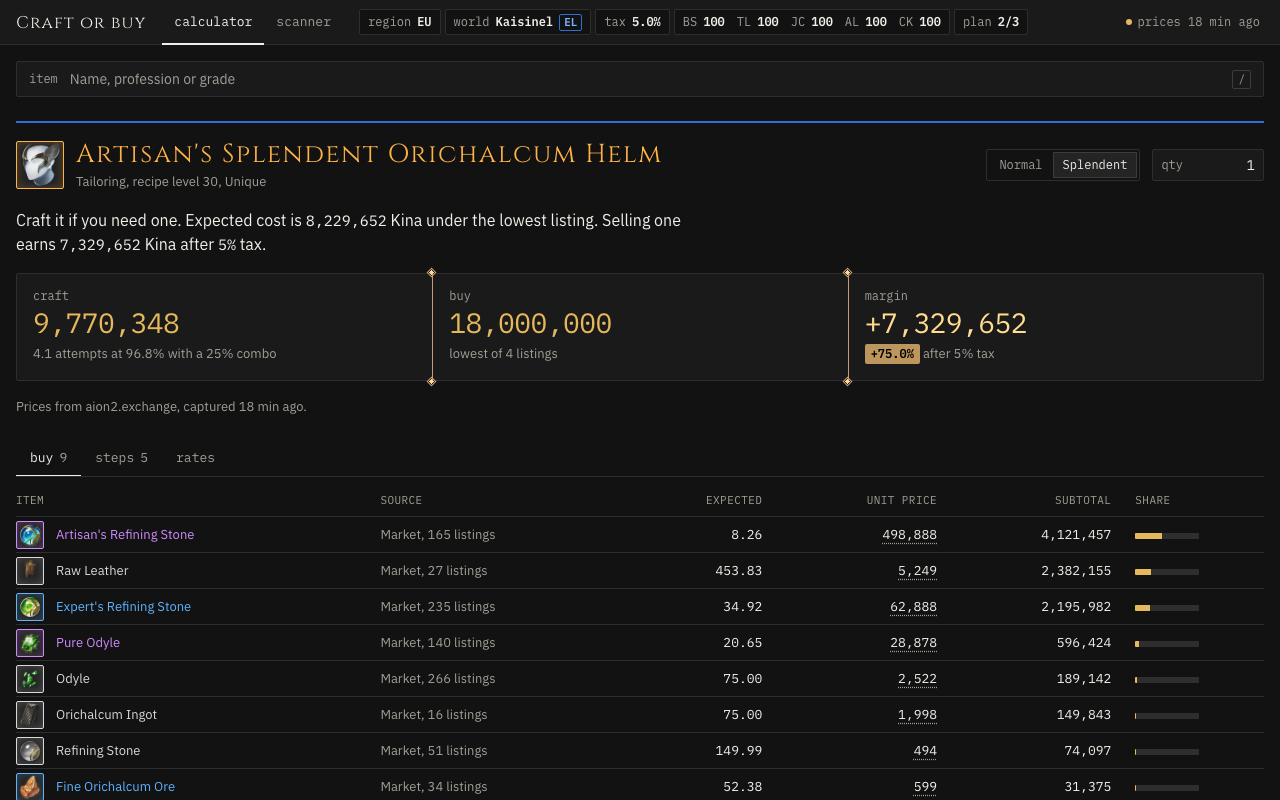
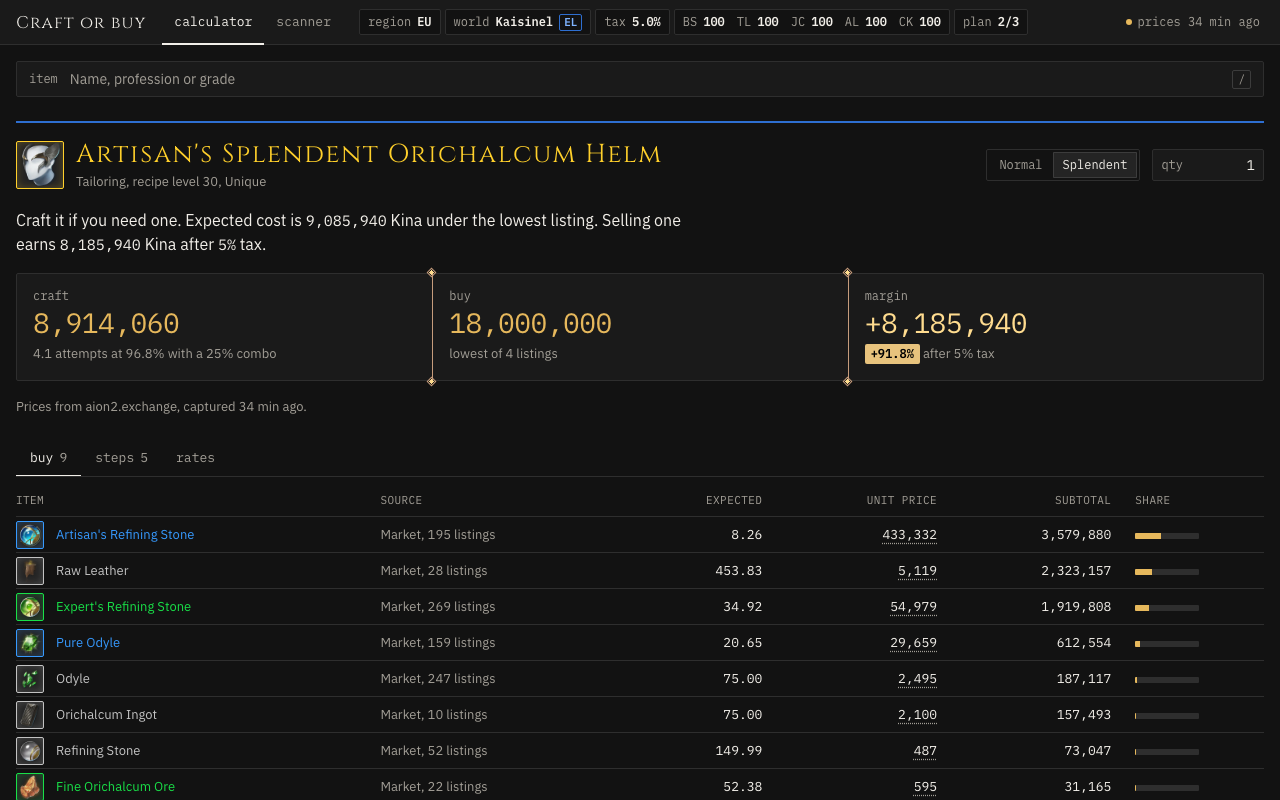
Review fixes: share bars of the gross total, grade search by both names
The buy table's Share column divided by plan.cost, which is net of the
byproduct credit, so with a credit the bars added up past 100%. It now
divides by the shopping total before credit.

The item search indexed only the Global grade name after the grade
table change, so "legend" stopped matching. It indexes both NC's id and
the client's name.

Docs screenshots retaken with the game's grade colours.

diff --git a/src/components/Details.tsx b/src/components/Details.tsx
@@ -100,6 +100,8 @@ const MISSING = <span className="is-warn">no price yet</span>
 function WhatToBuy({ plan, list, planning, overrides }: WhatToBuyProps) {
   const { catalog, prices, market } = planning
   const { lines, credit } = list
+  // Shares are of the shopping total before the byproduct credit, so they add up to 100%.
+  const gross = plan.cost + credit
 
   const source = (itemId: ItemId) => {
     const quote = prices.quote(itemId)
@@ -140,10 +142,10 @@ function WhatToBuy({ plan, list, planning, overrides }: WhatToBuyProps) {
       header: 'Share',
       hideNarrow: true,
       render: (row) => {
-        if (row.kind !== 'buy' || !Number.isFinite(plan.cost) || plan.cost <= 0) return null
-        const share = row.subtotal / plan.cost
+        if (row.kind !== 'buy' || !Number.isFinite(gross) || gross <= 0) return null
+        const share = row.subtotal / gross
         return (
-          <span className="share" title={`${percent(share, 1)} of the total`}>
+          <span className="share" title={`${percent(share, 1)} of what is bought`}>
             <span className="share-fill" style={{ width: `${Math.min(100, share * 100)}%` }} />
           </span>
         )

diff --git a/src/state/search.ts b/src/state/search.ts
@@ -22,7 +22,7 @@ function entriesOf(craftables: readonly Craftable[]): Entry[] {
   if (known) return known
   const built = craftables.map((craftable) => {
     const name = normal(craftable.item.name)
-    return { craftable, name, haystack: `${name} ${normal(craftable.profession ?? '')} ${normal(gradeName(craftable.item.grade))}` }
+    return { craftable, name, haystack: `${name} ${normal(craftable.profession ?? '')} ${normal(craftable.item.grade)} ${normal(gradeName(craftable.item.grade))}` }
   })
   entries.set(craftables, built)
   return built
